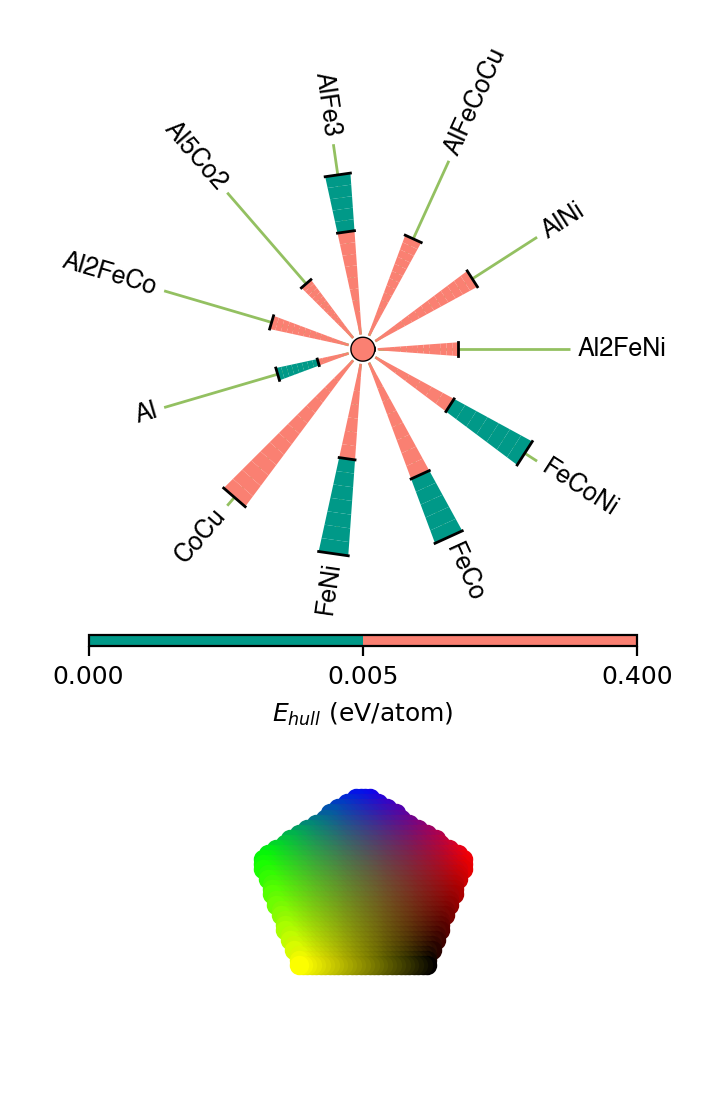
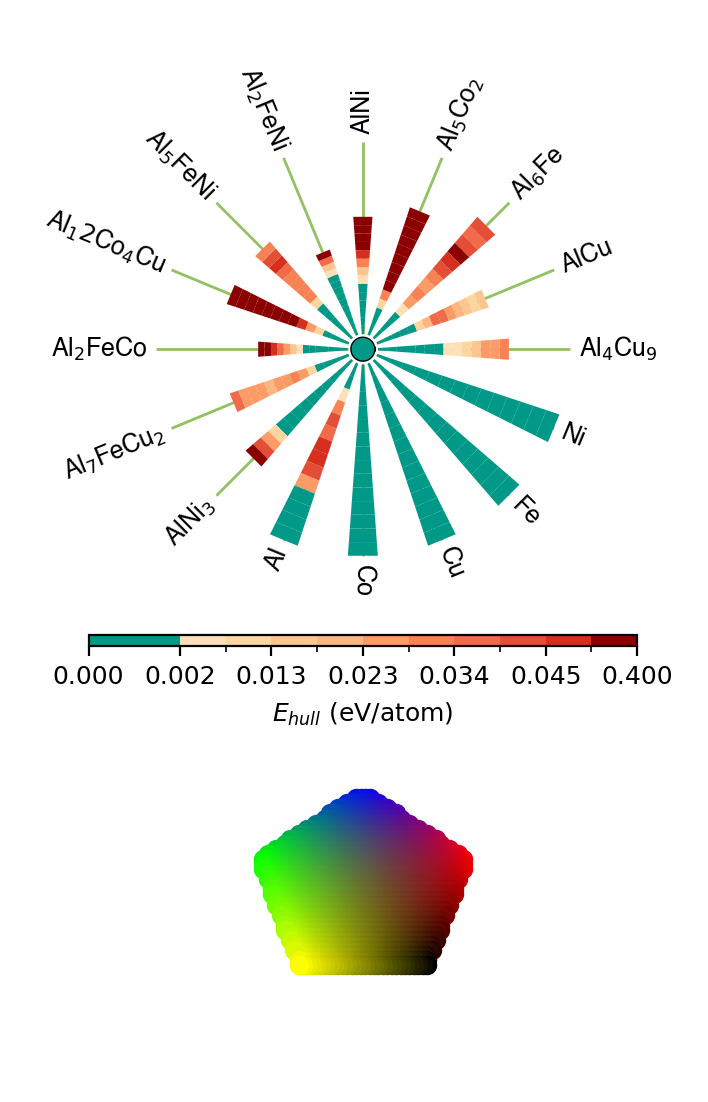
Fig5 updated, text label subscripts

diff --git a/figure_codes/fig5.py b/figure_codes/fig5.py
@@ -134,19 +134,26 @@ composition = ["Al", "Co", "Cu", "Fe", "Ni"]
 
 
 # central_point = [0.5, 0.0, 0.0, 0.25, 0.25]
-central_point = [0.7, 0.0, 0.2, 0.1, 0.0] #Al7FeCu2
+central_point = [0.2, 0.2, 0.2, 0.2, 0.2]
+# central_point =
 
-special_points = [[0.5, 0.0, 0.0, 0.25, 0.25], #Al2FeNi
-                  [0.5, 0, 0, 0, 0.5], #AlNi
-                  [0.25, 0.25, 0.25, 0.25, 0], #AlCoCuFe
-                  [0.25, 0.0, 0.0, 0.75, 0.0], #AlFe3
+special_points = [
+                  [4/13, 0.0, 9/13, 0.0, 0.0], #Al4Cu9
+                  [0.5, 0.0, 0.5, 0.0, 0.0], #AlCu
+                  [6/7, 0.0, 0.0, 1/7, 0.0], #Al6Fe
                   [5/7, 2/7, 0.0, 0.0, 0.0], #Al5Co2
+                  [0.5, 0, 0, 0, 0.5], #AlNi
+                  [0.5, 0.0, 0.0, 0.25, 0.25], #Al2FeNi
+                  [5/7, 0.0, 0.0, 1/7, 1/7], #Al5FeNi
+                  [12/17, 4/17, 1/17, 0.0, 0.0], #Al12Co4Cu
                   [0.5, 0.25, 0.0, 0.25, 0.0], #Al2CoFe
-                  [1.0, 0.0, 0.0, 0.0, 0.0], #Al
-                  [0.0, 0.5, 0.5, 0.0, 0.0], #CoCu
-                  [0.0, 0.0, 0.0, 0.5, 0.5], #FeNi
-                  [0.0, 0.5, 0.0, 0.5, 0.0 ], #CoFe
-                  [0.0, 1/3, 0.0, 1/3, 1/3], #CoFeNi
+                  [0.7, 0.0, 0.2, 0.1, 0.0], #Al7FeCu2
+                  [0.25, 0, 0, 0, 0.75], #AlNi3
+                  [1.0, 0.0, 0.0, 0.0, 0.0 ], #Al
+                  [0.0, 1.0, 0.0, 0.0, 0.0 ], #Cu
+                  [0.0, 0.0, 1.0, 0.0, 0.0 ], #Co
+                  [0.0, 0.0, 0.0, 1.0, 0.0 ], #Fe
+                  [0.0, 0.0, 0.0, 0.0, 1.0 ] #Ni
                   ]
 
 result = get_mol_grid_special(len(composition), central_point, special_points, 15)
@@ -161,7 +168,7 @@ for path, mol_bar in result.items():
         mol_ratio = dict(zip(composition, mol))
         entry = Composition(mol_ratio)
         comp_entry = _make_entry_from_formEperatom(pd, entry,
-                                                   get_dGmix(entry, T=1500))
+                                                   get_dGmix(entry, T=1800))
         try:
             e_hull = pd.get_e_above_hull(comp_entry)
             if np.isclose(e_hull, 0, atol=1e-3, rtol=1e-3):
@@ -176,7 +183,7 @@ for path, mol_bar in result.items():
 
 
 constraint_element_index = 0
-property_str = 'phase_boundary'
+property_str = 'e_hull'
 subset_idx = None
 replacement = None
 custom_data = data

diff --git a/main.py b/main.py
@@ -1,3 +1,5 @@
+import re
+
 import matplotlib
 import numpy as np
 from matplotlib.patches import Rectangle
@@ -108,15 +110,15 @@ def plot_bars(n, subset_idx, plot_grid, data, color_params, plot_params, replace
 			)
 
 			ax.add_patch(rect)
-
-			if color != prev_color:
-				x0, y = rect.get_xy()
-				w, h = rect.get_width(), rect.get_height()
-				ax.plot([x0, x0+w], [y, y], color='black', lw=1.0)
-			if i == len(mol) - 2:
-				x0, y = rect.get_xy()
-				w, h = rect.get_width(), rect.get_height()
-				ax.plot([x0, x0+w], [y+h, y+h], color='black', lw=1.0)
+			if property_yaml['boundary_flag']:
+				if color != prev_color:
+					x0, y = rect.get_xy()
+					w, h = rect.get_width(), rect.get_height()
+					ax.plot([x0, x0+w], [y, y], color='black', lw=1.0)
+				if i == len(mol) - 2:
+					x0, y = rect.get_xy()
+					w, h = rect.get_width(), rect.get_height()
+					ax.plot([x0, x0+w], [y+h, y+h], color='black', lw=1.0)
 
 			prev_color = color
 
@@ -226,7 +228,10 @@ def plot_text_special(composition, total, plot_params, ax, n, ymax=None):
 		comp_dict = dict(zip([Element(composition[i[0]]) for i in comp], [i[1] for i in comp]))
 		composition_formula = Composition(comp_dict)
 		# name = ''.join([f"${composition[i[0]]}_" +"{" + f"{i[1]}" +"}$" for i in comp if i[1] != 0])
-		name = composition_formula.get_integer_formula_and_factor()[0]
+		name = str(composition_formula.get_integer_formula_and_factor()[0])
+
+		name_rep = re.sub(r'(?<=[A-Za-z])(\d+(?:\.\d+)?)(?!\d)', r'${_\1}$',
+						  re.sub(r'(?<!\d)(\d+(?:\.\d+)?)(?=[A-Za-z])', r'${_\1}$', name))
 		if ymax is None:
 			radius = pm.distance_calculator(n, 1) * scaling_factor + 1.1 * y_bias
 		else:
@@ -238,7 +243,7 @@ def plot_text_special(composition, total, plot_params, ax, n, ymax=None):
 		ax.text(
 			angles[idx],
 			radius,
-			name,
+			name_rep,
 			ha=ha,
 			va="center",
 			color=color,

diff --git a/scratch.py b/scratch.py
@@ -3,7 +3,7 @@ from typing import List, Iterable
 from main import main
 from utils import get_mol_grid, create_high_sym_mol_grid, get_mol_grid_central
 import numpy as np
-
+import pickle
 
 mol_gradation = 15
 n = 5
@@ -54,18 +54,27 @@ ax1.set_yticks([])
 ax1.set_xticks([])
 ax1.spines["polar"].set_visible(False)
 ax1.grid(False)
-composition = ['Cr', 'Fe', 'Mn', 'Ni']
+composition = ['Hf', 'Mo', 'Nb', 'Ta', 'Ti']
 constraint_element_index = 0
-property_str = 'density'
-custom_data = None
-is_custom = False
+property_str = 'phase_fraction'
+#
+with open(f"./{'-'.join(composition)}_data.pkl", "rb") as f:
+	data = pickle.load(f)
+
+
+# custom_data = None
+custom_data = data
+is_custom = True
 plot_grid = fig, ax1
-central_point = [0.2, 0.2, 0.2, 0.4]
-special_points = [[0.25, 0.25, 0.25, 0.25],
-				  [0.4, 0.0, 0.2, 0.4],
-				  [0, 0, 0, 1],
-				  [1, 0, 0, 0],
-				  [0.25, 0.2, 0.2, 0.35]]
+# central_point = [0.2, 0.2, 0.2, 0.4]
+# special_points = [[0.25, 0.25, 0.25, 0.25],
+# 				  [0.4, 0.0, 0.2, 0.4],
+# 				  [0, 0, 0, 1],
+# 				  [1, 0, 0, 0],
+# 				  [0.25, 0.2, 0.2, 0.35]]
+central_point = None
+special_points = None
+
 
 mol_grid = main(composition=composition,
 				plot_grid=plot_grid,
@@ -77,4 +86,9 @@ mol_grid = main(composition=composition,
 				cbar_ax=ax1,
 				central_point=central_point,
 				special_points= special_points)
+
+
+with open(f"{'-'.join(composition)}.pkl", 'wb') as f:
+	pickle.dump(mol_grid, f)
+
 plt.show()

diff --git a/property_utils.py b/property_utils.py
@@ -100,6 +100,10 @@ def cbar_property(property, composition):
 	elif property == "elastic":
 		cmap = plt.get_cmap(property_meta_data['cmap_color'])
 		norm = mcolors.Normalize(vmin=property_meta_data["norm_min_bound"], vmax=property_meta_data["norm_max_bound"])
+
+	elif property == "phase_fraction":
+		cmap = plt.get_cmap(property_meta_data['cmap_color'])
+		norm = mcolors.Normalize(vmin=property_meta_data["norm_min_bound"], vmax=property_meta_data["norm_max_bound"])
 	
 	return cmap, norm
 
@@ -118,7 +122,7 @@ def property_cbar(cmap, norm, ax, fontsize, property):
 						  pos.width + cbar_properties['width_shift'] ,
 						  pos.height + cbar_properties['height_shift']])
 
-	if property == 'e_hull':
-		cbar.ax.set_xticks([0.0, 0.01, 0.02, 0.03, 0.04, 0.4]) # bit of hardcoding
+	# if property == 'e_hull':
+	# 	cbar.ax.set_xticks([0.0, 0.01, 0.02, 0.03, 0.04, 0.4]) # bit of hardcoding
 
 	cbar.set_label(property_yaml[property]['label'], fontsize = fontsize)
